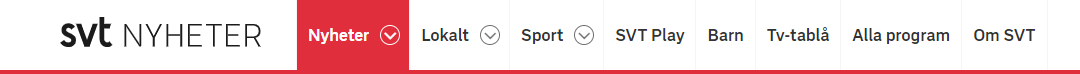
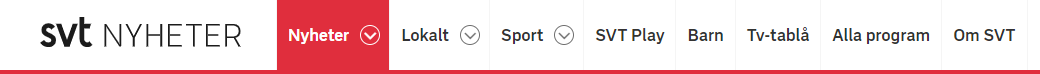
More picture and stuff

Changed region(s): [[0.0308, 0.0, 0.9846, 0.9459]]

diff --git a/index.html b/index.html
@@ -5,20 +5,65 @@
 				<link rel="stylesheet" type="text/css" href="style.css" />
         </head>
 		
-		<body>
+		<body>			
 
-		    <div id="container">
+		    <div id="container">			
 			
-			<img src="SVT.png" alt="lol prank" width=1080px height=74px/>
+			<img src="SVT.png" alt="lol prank" width=1040px height=74px/>
 			
+			<img src="Ekonomi.png" alt="lol prank" width=1040px height=43px/>			
+			
+			    <div id="date">
+				
+				  <p> Publicerad idag 5:28 </p>	
+				  
+				</div>	
+				
+                <div id="reklam">
+				
+				  	<img src="Reklam1.png" alt="lol prank" width=250px height=250px/>
+					<h2>52 år sen månlandningen!</h2>
+				  
+				</div>					
+
+				<div id="about">
+
+			      <img src="Soldater.png" alt="lol prank" width=610px height=390px/>	
+
+				</div>	
+
+                <div id="reklam">
+				
+				  	<img src="Reklam2.png" alt="lol prank" width=250px height=250px/>
+					<h2>Nu kommer våren!</h2>
+				  
+				</div>					
+
 				<div id="about">
 				
-				  <h1>Om våran skola!</h1>
+				  <h1>Tredje världskriget är på horisonten!</h1>
 				
-				  <p>Skolan Skidbab är en skola för barn.</p>
-				  <p>Den ligger 15 meter undermarken och har inga fönster,<br /> den blir istället belyst av röda LED lampor.</p>		
+				  <p>Imorse berättade Joe Biden att han kanske kommer skicka soldater till Iran. </p>
+				  <p>Bomber bomber bomber bomber, död död död</p>		
 				  
-				</div>				
+				</div>			
+
+                <div id="about">
+				
+				  <h1>Tredje världskriget har börjat</h1>
+				
+				  <p>bla bla bla Kim Jong Un bla bla bla Iran </p>
+				  <p>Bomber bomber bomber bomber, död död död</p>		
+				  
+				</div>		
+
+                <div id="WARNING">
+				
+                  <p> Denna artikel är inte riktig,
+                      This article is not real.
+				  </p>	
+				  
+				</div>					
 
 		    </div>
 			

diff --git a/style.css b/style.css
@@ -1,5 +1,5 @@
 body {
-     background-color: #e3e2de;
+     background-color: #f5f5f5;
 	 font-family: Bahnschrift, Helvetica, Arial;
 }
 
@@ -9,21 +9,25 @@ a {
 }
 
 h1 {
-	margin: 0;
+	margin: 1;
 }
 
 #container {
-	background-color: gray;
-	width: 1080px;
+	background-color: #dedede;
+	width: 1040px;
 	margin-left: auto;
 	margin-right: auto;
-	padding: 1px;
+	padding: 5px;
+	
+	border: 1px solid #d9d9d9;
 }
 
-#header {
-	background-color: #e64758;
-	text-align: center;
-	padding: 10px;
+#date {
+	background-color: #e0e0e0;
+	color: gray;
+	margin-left: auto;
+	margin-right: auto;
+	padding: 2px;
 }
 
 #about {
@@ -31,7 +35,31 @@ h1 {
 	margin-left: left;
 	margin-right: auto;
 	padding: 10px;
-	width: 400px;
-	height: 200px;
-	height: 200px;
+	width: 610px;
+	
+	margin-bottom: 6px;
+	border: 1px solid #d9d9d9;
 }
+
+#reklam {
+	background-color: white;
+	padding: 10px;
+	width: 250px;
+	
+	margin-bottom: 10px;
+	border: 1px solid #d9d9d9;
+	float: right;
+	text-align: center;
+}
+
+#WARNING {
+	background-color: white;
+	color: red;
+	padding: 2px;
+	width: 250px;
+	
+	border: 1px solid #d9d9d9;
+	text-align: center;
+}
+
+
